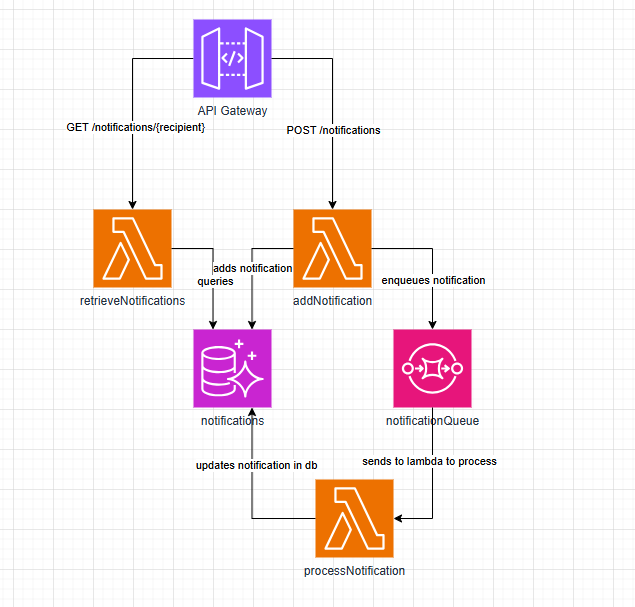
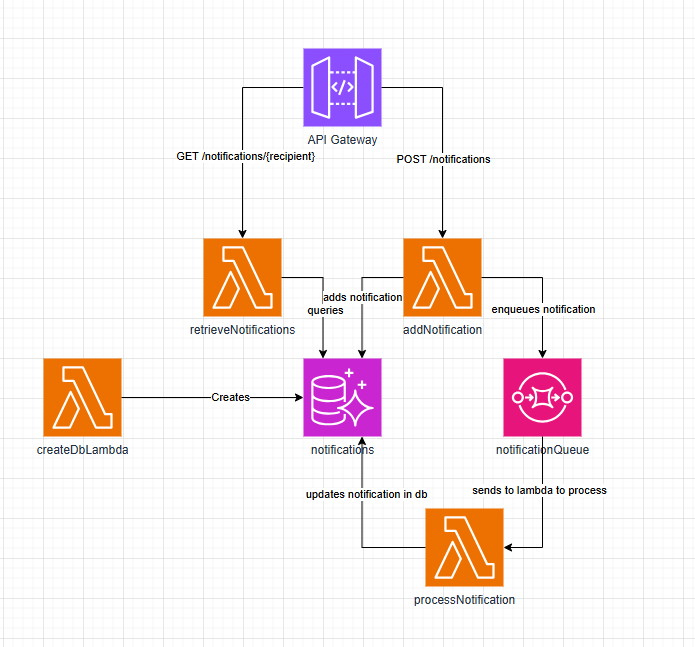
readme updates

Changed region(s): [[0.0598, 0.0297, 0.8677, 0.9489]]

diff --git a/README.md b/README.md
@@ -1,6 +1,6 @@
 # Hogwarts Notifications Service
 
-The system is structured as follows:
+## System Structure
 
 - An API gateway handling requests
 - the `retrieveNotifications` lambda queries the database to get the needed notifications
@@ -8,10 +8,19 @@ The system is structured as follows:
 - the `notificationQueue` holds all the queued notifications, sending them to be processed by the `processNotification` lambda
 - the `processNotification` lambda handles the actual sending of the notification (for the purposes of this project, it just logs that the notification was sent) and then updates the notification in the database to reflect that it has been sent
 - the `notifications` database. This is a simple table that holds all the notifications
+- the `createDbLambda` function creates the database and `Notifications` table when the project is deployed to AWS
 
 ![diagram](./hogwarts-api-structure.png)
 
-Theoretically this could be extended to add a Dead Letter Queue to collect failures
+### Tradeoffs and improvements
+
+- Add a DLQ for notifications that fail
+- integrate `processNotification` with some service that actually does something with a notification
+- Add notifications to a different queue before being added to the database initially, to prevent DB connection pool from being overloaded
+- Add another lambda running on a cron job that allows notifications to be scheduled
+  - This would involve adding a data field for scheduled time to notifications
+  - Is cron job lambda actually the best way to do this? If you have to check every minute that sounds expensive...not sure
+- I _think_ I'm guarding against SQL injection properly, but there might be more improvements there.
 
 ## DB Structure
 
@@ -24,6 +33,16 @@ Columns:
 - message
 - status
 - createdAt
+
+## General Thought Process
+
+Here's a general outline of my thought process as I read the instructions:
+
+- API endpoints, so we'll need an API Gateway
+- Each endpoint can trigger a specific lambda
+- We'll need a database to hold the notifications
+- Instructions mention queueing a message to be sent, and also the "flow of messages", so we should use an SQS queue to hold the messages before they're sent.
+- Another lambda can process/"send" the notifications and grab them from the queue.
 
 ## Setup instructions
 
@@ -71,6 +90,8 @@ cdk destroy
 **WARNING**: This will also destroy the database, and any data in it will be lost.
 
 ## Example requests/responses
+
+**NOTE:** All requests must have the `X-API-Key` header. The static api key defined for the purpose of testing this project is `harryPotterAndTheSorcerersStone`
 
 ### POST /notifications
 
